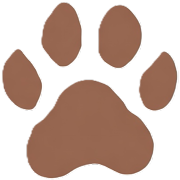
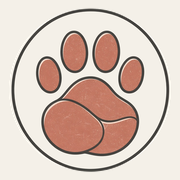
Add the paw mark beside the site name. (#11)
The header uses the 512 paw, sized for a 40 pixel desktop mark, and the old template favicons are replaced with the new icon files.

diff --git a/src/styles/globals.css b/src/styles/globals.css
@@ -120,11 +120,27 @@
     }
 
     .wordmark {
+        display: inline-flex;
+        align-items: center;
+        gap: 0.55rem;
         font-size: 28px;
         line-height: 1;
         color: inherit;
         text-decoration: none;
         letter-spacing: -0.02em;
+        white-space: nowrap;
+    }
+
+    .wordmark-mark {
+        width: 32px;
+        height: 32px;
+    }
+
+    @media (min-width: 768px) {
+        .wordmark-mark {
+            width: 40px;
+            height: 40px;
+        }
     }
 
     .menu-button {
